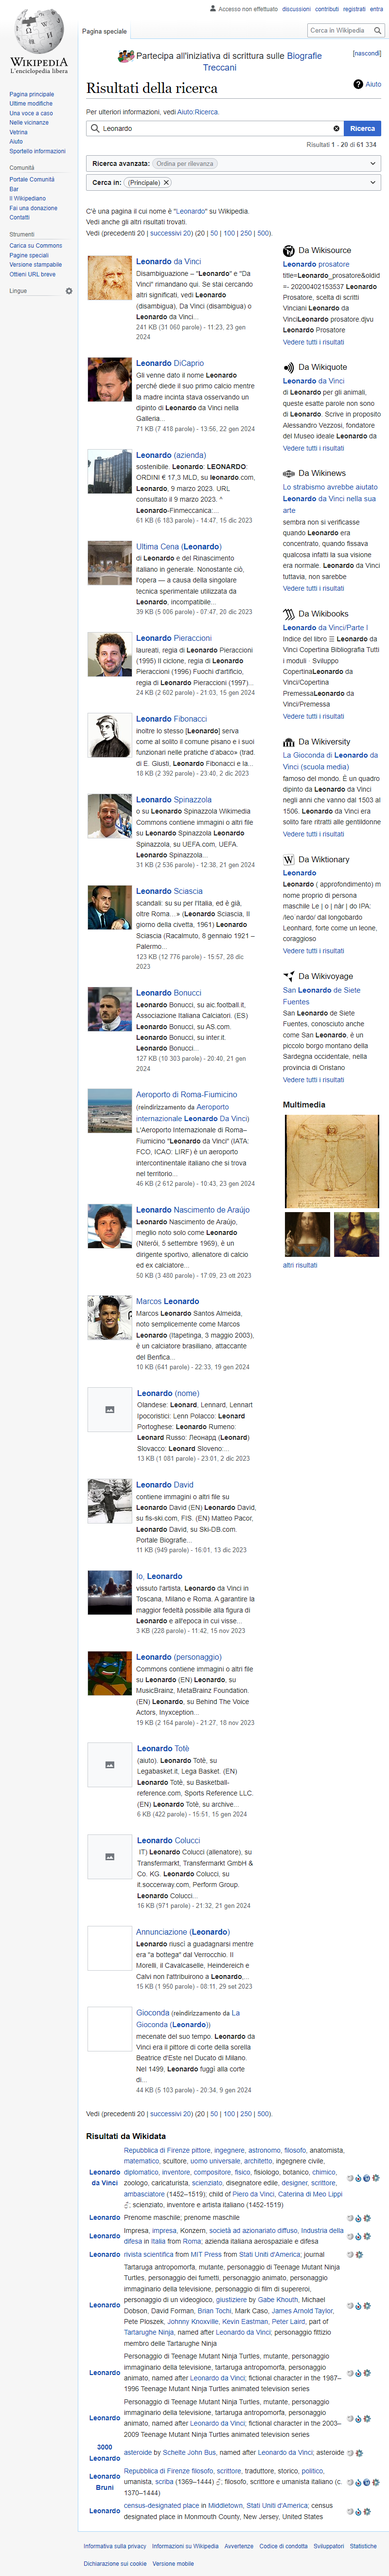
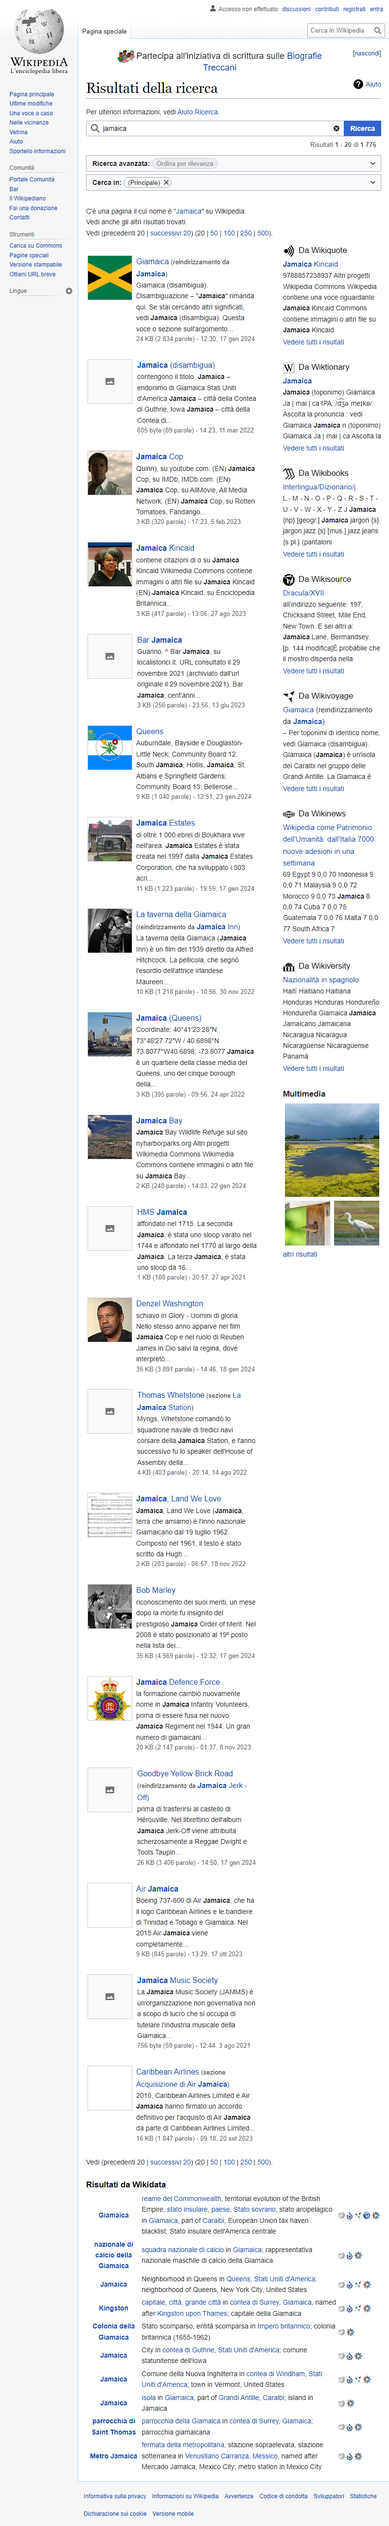
edit

diff --git a/examples/search-wiki.js b/examples/search-wiki.js
@@ -24,7 +24,7 @@ const puppeteer = require('puppeteer');
     await page.waitForSelector(startSelector);
 
   // Type into search box.
-  await page.type('.vector-search-box-input', 'Leonardo');
+  await page.type('.vector-search-box-input', 'jamaica');
 
   // Wait for the results page to load and display the results.
   // dont works fine
